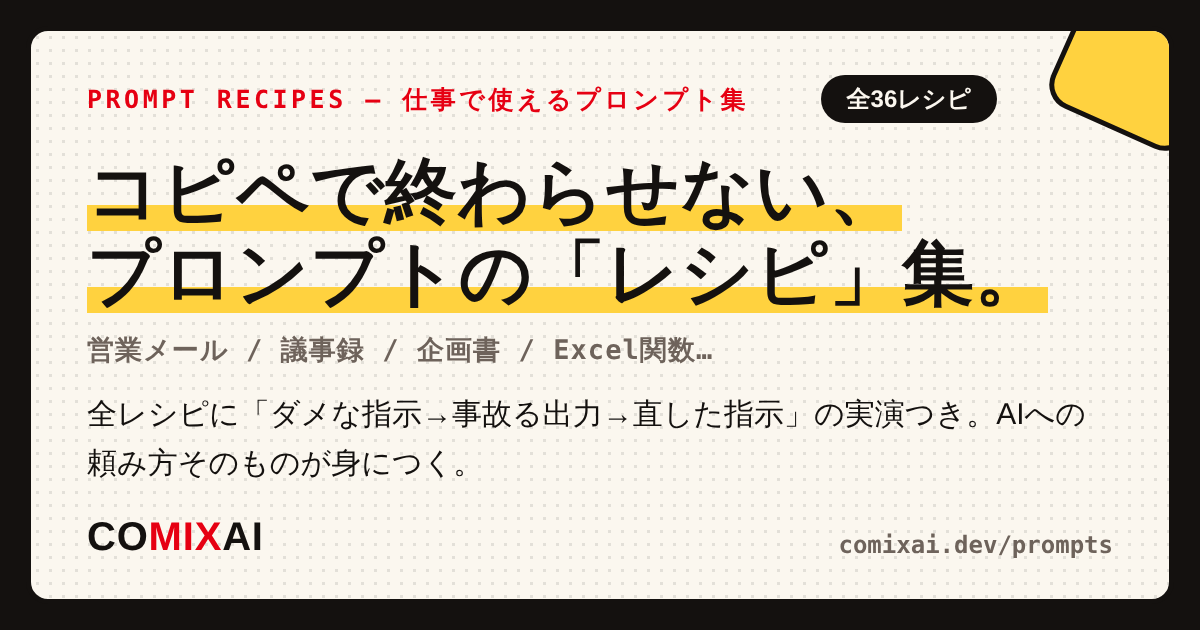
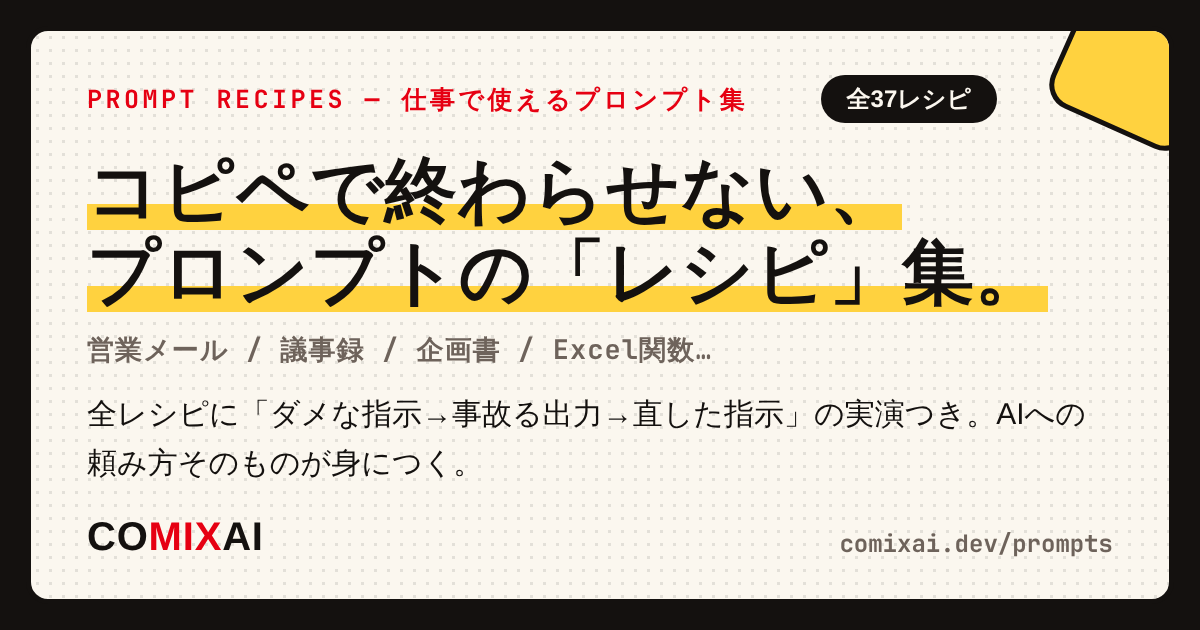
feat: プロンプト集に「読書メモ・学習ノート」を追加 (#307)
- recipes-work.ts（伝える・キャリア）に reading-notes レシピを追加
- 職種ガイドへの配置は見送り（個人の学び系はresume/self-pr/
  self-analysisと同様に職種useCaseに合わないため）
- PROMPTS_UPDATED を2026-11-12に更新
- OGP画像（reading-notes.png / index.png）を生成

Claude-Session: https://claude.ai/code/session_01XXMqZ9tPo5AV49DyVUW28D

diff --git a/src/app/prompts/recipes-work.ts b/src/app/prompts/recipes-work.ts
@@ -1032,6 +1032,117 @@ F列合計を出したい。空欄の担当者は除外】
     lastUpdated: "2026-07-15",
   },
   {
+    slug: "reading-notes",
+    title: "読書メモ・学習ノート",
+    seoTitle: "AI読書メモプロンプト｜読んだ本を「使える知識」に変える",
+    catch: "要約を手に入れることと、自分の学びにすることは、別の作業。",
+    category: "伝える・キャリア",
+    icon: "ph-notebook",
+    short:
+      "読書メモ・学習ノートづくりにAIを使うプロンプト。要約させて読んだ気になる失敗例と、まず自分で思い出してからAIに質問で掘らせて、記憶に残り行動につながるノートにするコツを解説します。",
+    keywords: ["読書メモ AI", "読書ノート 書き方", "ChatGPT 読書 活用", "本 要約 AI", "学習ノート プロンプト"],
+    intro: [
+      "AIに書名を渡せば、有名な本ほどそれらしい要約が一瞬で出てきます。そして、これが読書メモのいちばん危ない落とし穴です。要約を受け取ることと、本の中身を自分の学びにすることは、まったく別の作業だからです。",
+      "記憶の研究では、知識は「思い出そうとするとき」に定着するとされています。つまり読書メモは、AIに書かせるものではなく、AIの質問で自分から引き出すもの。このレシピは、AIを要約機ではなく「読んだ内容を掘り出すインタビュアー」として使う型です。",
+    ],
+    badPrompt: "『7つの習慣』の内容を要約して。読書メモを作りたいです。",
+    badResult:
+      "「第1の習慣：主体的である——人は刺激と反応の間に選択の自由を持つ…」と、章ごとの整った要約が出てきます。きれいですが、ネット上に山ほどある紹介記事と同じ内容で、あなたがどこに線を引き、何に唸ったのかはゼロ。1週間後に読み返しても何も蘇りません。しかもこの要約、AIが本を開かずに学習知識から書いたものなので、版の違いや世間の通説が混ざり、実際の本文と細部が食い違うことがあります。",
+    badWhy: [
+      "読書メモの価値は、本の内容そのものではなく「自分がどう受け取ったか」にあります。AIの要約は学習データから出てくるので、あなたの読書体験とは無関係です。知らない本の要約ほど整って見えるのに、細部が創作されていることもある——読書とAIの相性でいちばん注意すべき点です。",
+      "もうひとつの問題は、受け取るだけでは記憶に残らないこと。要約を読むのは「わかった気になる」最短ルートで、「使える知識になる」工程をすべて飛ばしています。思い出す・自分の言葉にする・自分の状況に当てはめる——この3つはAIに代行させられません。",
+    ],
+    goodPrompt: `あなたは読書コーチです。私が読み終えた本の内容を
+「使える知識」に変えるため、インタビューしてください。
+
+■読んだ本
+・書名と著者：【例：『◯◯』（著者名）】
+・読んだ目的：【例：チームへの仕事の任せ方に悩んでいた】
+
+■覚えている内容（まず自力で書き出す。雑でOK）
+【例：・任せ方の章がいちばん刺さった
+・「権限は渡すが、責任は渡さない」という言葉
+・後半の統計の章は流し読みした】
+
+■進め方
+・私のメモに対して質問を1つずつ、合計5問まで
+  （例：「それは自分の仕事のどの場面に当てはまる？」
+  「著者の主張で納得できなかった点は？」）
+・私の回答を待ってから次の質問をする
+・最後に、ここまでの対話を読書ノートに整理する：
+  1. この本の要点3つ（私の言葉を使って）
+  2. 明日から試すこと1つ（具体的な行動レベルで）
+  3. この本への自分の立場（賛成／部分的に賛成／保留）と理由
+
+■条件
+・本の内容を、私のメモにある以上に補わない
+  （あなたの知識で要約や「この本のポイント」を足さない）`,
+    points: [
+      {
+        label: "まず自力で思い出してから渡す",
+        desc: "「覚えている内容」を雑でも自分で書き出す工程が、このレシピの本体です。思い出そうとする負荷が記憶を定着させます。ここを飛ばしてAIに要約させると、楽になるぶん何も残りません。",
+      },
+      {
+        label: "「本の内容を補わない」が安全装置",
+        desc: "有名な本ほど、AIは学習知識で空白を埋めたがります。それはあなたの読書と無関係なうえ、細部が不正確なこともある。この1行で、ノートが「自分の記録」のまま保たれます。",
+      },
+      {
+        label: "「どの場面に当てはまる？」で知識を接地する",
+        desc: "本の学びが使われないのは、抽象的なまま終わるからです。自分の仕事・生活の具体的な場面に接続する質問をさせると、知識に「使いどころ」のラベルが付きます。",
+      },
+      {
+        label: "持ち帰りは「行動1つ」に絞る",
+        desc: "10個の学びを書いたノートより、明日やる行動が1つ決まったノートのほうが、読書の成果としては上です。絞る判断までを対話の出口に組み込んであります。",
+      },
+    ],
+    arrange: [
+      {
+        title: "著者と議論するモード",
+        desc: "ノートができたら「この本の著者になりきって。私が反論するので、著者として答えて」と続けると、批判的読書の練習になります。反論して返り討ちに遭った主張は、忘れません。",
+      },
+      {
+        title: "過去のノートとつなげる",
+        desc: "「前に読んだ『◯◯』のノートと今回のノートを比べて、矛盾する主張と補完し合う点を整理して」と頼むと、1冊ずつの点の学びが線になります。読書ノートが溜まるほど効く使い方です。",
+      },
+      {
+        title: "動画・セミナー・記事にも同じ型",
+        desc: "「覚えていることを書き出す→質問で掘る→行動1つ」の型は、YouTubeやセミナーの学習ノートにもそのまま使えます。録画の文字起こしがあるなら「文字起こしの整形」レシピとの合わせ技も有効です。",
+      },
+    ],
+    pitfalls: [
+      {
+        title: "要約の公開は著作権に注意",
+        desc: "本の詳細な要約や章ごとのまとめをブログ・SNSで公開すると、著作権侵害になり得ます。読書ノートは私的利用の範囲で。発信したいときは、本の再現ではなく自分の経験と意見を主役にして、引用は出典明示で短く、が原則です。",
+      },
+      {
+        title: "AIの語る「本の内容」を鵜呑みにしない",
+        desc: "実在する本でも、AIはページ数・引用文・細部のエピソードを自信満々に創作することがあります。「この本に◯◯と書いてありましたか？」の確認は原本で。正確な引用が必要なときほど、本棚に戻ってください。",
+      },
+    ],
+    faq: [
+      {
+        q: "読む前に要約を見るのはダメですか？",
+        a: "読む前の「地図」としては有効です。全体像と目的を持って読むほうが、拾える学びは増えます。ダメなのは、要約を読んだだけで読んだ気になること。地図を見ることと、歩くことの違いです。",
+      },
+      {
+        q: "子どもの読書感想文にも使えますか？",
+        a: "丸投げは、学びが残らないうえ多くの学校で不正扱いです。正しい使い方は、読んだあとにこのレシピの型で考えを掘り出し、最後は自分の言葉で書くこと。「どの場面が心に残った？」という質問役としてのAIは、感想文の良い伴走者になります。",
+      },
+      {
+        q: "積読ばかり増えて読み終わりません。",
+        a: "「読んだ目的」から逆算して、目的に関係する章だけ読む計画をAIに立てさせる手があります（目次を貼って「◯◯が目的なら、どの章をどの順で読むべき？」）。全部読むことより、1つ持ち帰ることが読書の成果です。",
+      },
+    ],
+    relatedGlossary: ["hallucination", "prompt-engineering", "ai-literacy"],
+    game: {
+      href: "/nou",
+      title: "速い脳・遅い脳",
+      desc: "即答とじっくり思い出す思考の違いを体感。読書メモが「遅い脳」の仕事である理由がわかります。",
+    },
+    relatedRecipes: ["study", "summary", "transcript"],
+    lastUpdated: "2026-11-12",
+  },
+  {
     slug: "proofread",
     title: "文章の校正・推敲",
     seoTitle: "AI校正プロンプト｜誤字チェックで終わらせない推敲術",

diff --git a/src/app/prompts/data.ts b/src/app/prompts/data.ts
@@ -86,7 +86,7 @@ export const RECIPES: Recipe[] = [
   ...RECIPES_WORK,
 ];
 
-export const PROMPTS_UPDATED = "2026-11-10";
+export const PROMPTS_UPDATED = "2026-11-12";
 
 /** カテゴリの表示順と説明（一覧ページで使う） */
 export const RECIPE_CATEGORIES: {
